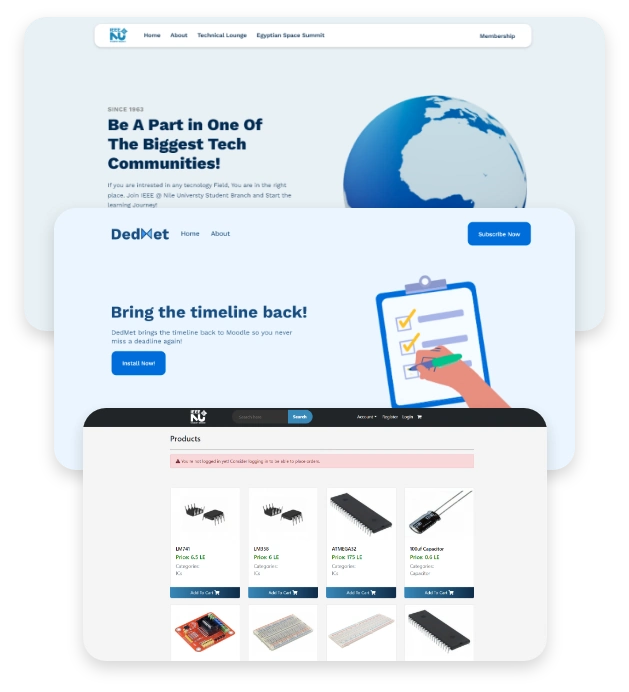
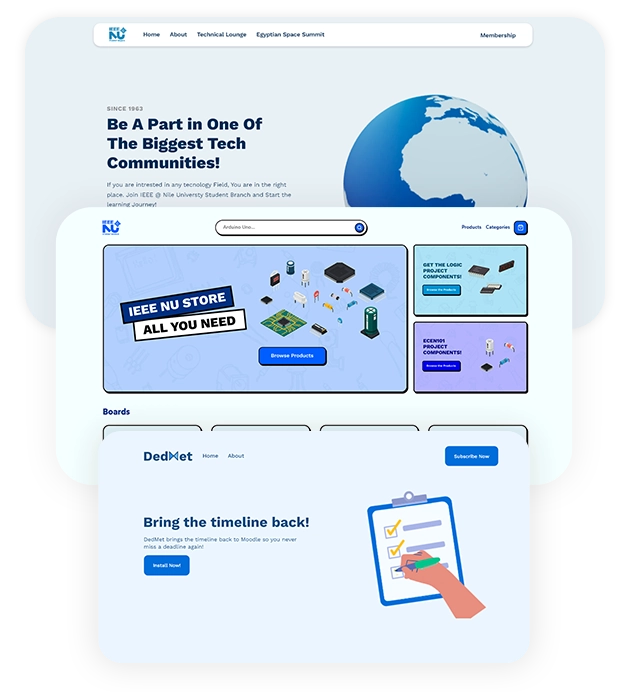
Modifications and updates

diff --git a/components/Designs/DesignsGrid.tsx b/components/Designs/DesignsGrid.tsx
@@ -1,7 +1,7 @@
 import { clamp } from "@components/GlobalStyles/GlobalStyles.helpers";
 import BREAKPOINTS from "@constants/breakpoints";
-import { NextPage } from "next/types"
-import styled from "styled-components"
+import { NextPage } from "next/types";
+import styled from "styled-components";
 
 const DesignsGrid: NextPage = () => {
   return (
@@ -11,7 +11,7 @@ const DesignsGrid: NextPage = () => {
       <Component3></Component3>
       <Component4></Component4>
     </Wrapper>
-  )
+  );
 };
 
 const Wrapper = styled.div`
@@ -20,11 +20,11 @@ const Wrapper = styled.div`
   height: ${clamp(250, 530, BREAKPOINTS.desktopStart)};
   grid-template-rows: 1fr 1fr;
   grid-template-columns: 1fr 1fr 1fr;
-  grid-template-areas: 
-    'area1 area1 area2'
-    'area3 area4 area2';
+  grid-template-areas:
+    "area1 area1 area2"
+    "area3 area4 area2";
   gap: ${clamp(16, 32)};
-`
+`;
 const Component = styled.div`
   background-color: var(--primary);
   height: 100%;
@@ -32,24 +32,22 @@ const Component = styled.div`
   background-size: cover;
   background-position: center;
   background-repeat: no-repeat;
-
-`
+`;
 const Component1 = styled(Component)`
   grid-area: area1;
   background-image: url("/images/designs/cover-2.webp");
-  
-`
+`;
 const Component2 = styled(Component)`
   grid-area: area2;
   background-image: url("/images/designs/tall.webp");
-`
+`;
 const Component3 = styled(Component)`
   grid-area: area3;
   background-image: url("/images/designs/square.webp");
-`
+`;
 const Component4 = styled(Component)`
   grid-area: area4;
   background-image: url("/images/designs/square-2.webp");
-`
+`;
 
-export default DesignsGrid
+export default DesignsGrid;

diff --git a/components/PreviousWork/ScrollComponent.tsx b/components/PreviousWork/ScrollComponent.tsx
@@ -80,13 +80,13 @@ const ScrollComponent: NextPage<{ scrollYProgress: any }> = ({
       <SecondImage
         style={secondImage}
         aria-hidden="true"
-        src="/images/projects/screenshots/store.png"
+        src="/images/projects/screenshots/dedmet.png"
       />
       <ThirdImage
         ref={imgRef}
         aria-hidden="true"
         style={thirdImage}
-        src="/images/projects/screenshots/dedmet.png"
+        src="/images/projects/screenshots/store.png"
       />
     </ScrollWrapper>
   );

diff --git a/components/Project/Project.tsx b/components/Project/Project.tsx
@@ -49,7 +49,7 @@ const Wrapper = styled.a<{ backgroundColor: string }>`
   --bg: ${(p) => p.backgroundColor};
   --titleColor: ${(p) => getAppropiateColor(p.backgroundColor, "primary")};
   --mutedColor: ${(p) => getAppropiateColor(p.backgroundColor, "secondary")};
-  --padding: ${clamp(22, 45)};
+  --padding: ${clamp(30, 45)};
 
   display: block;
   background-color: var(--bg);
